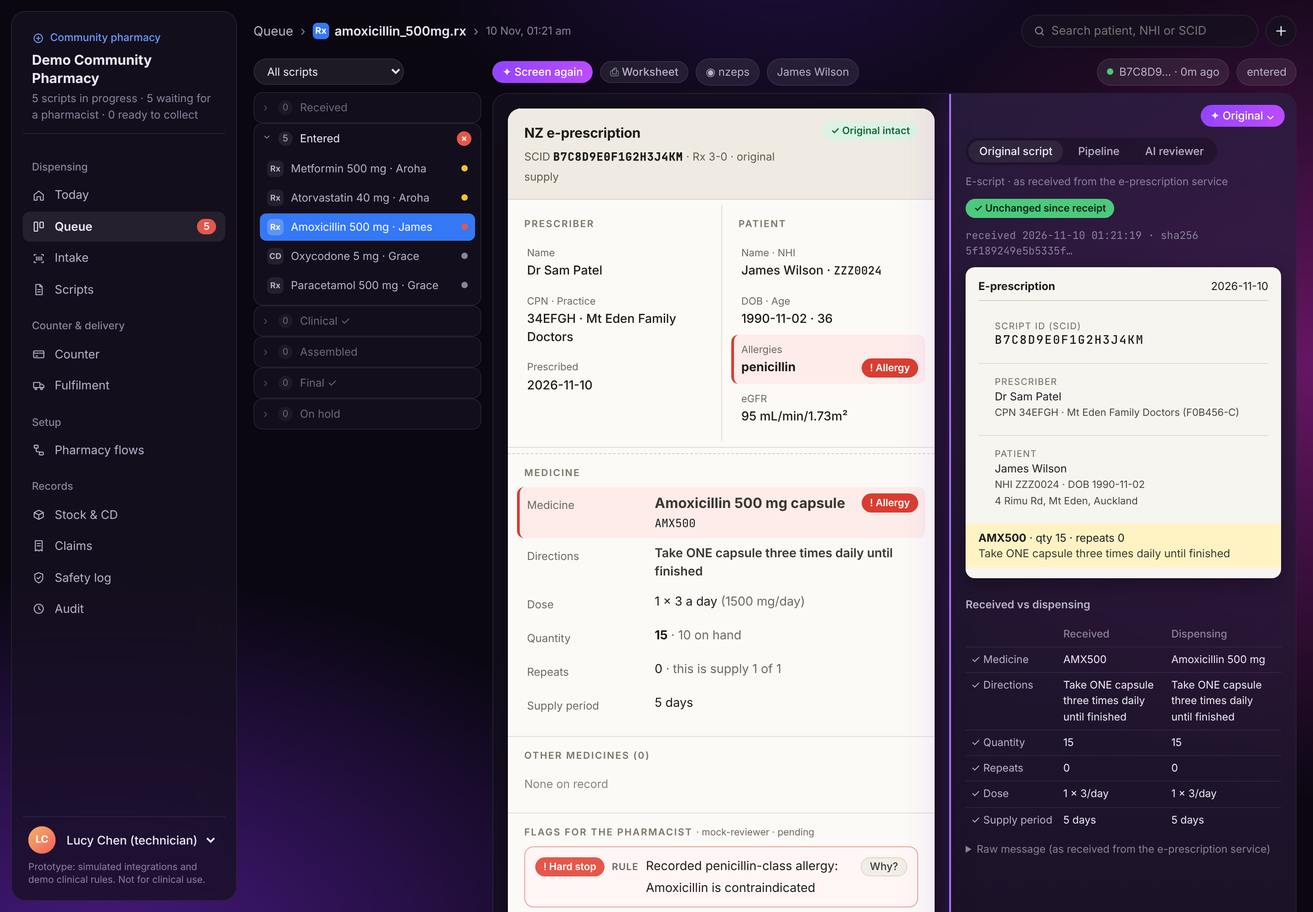
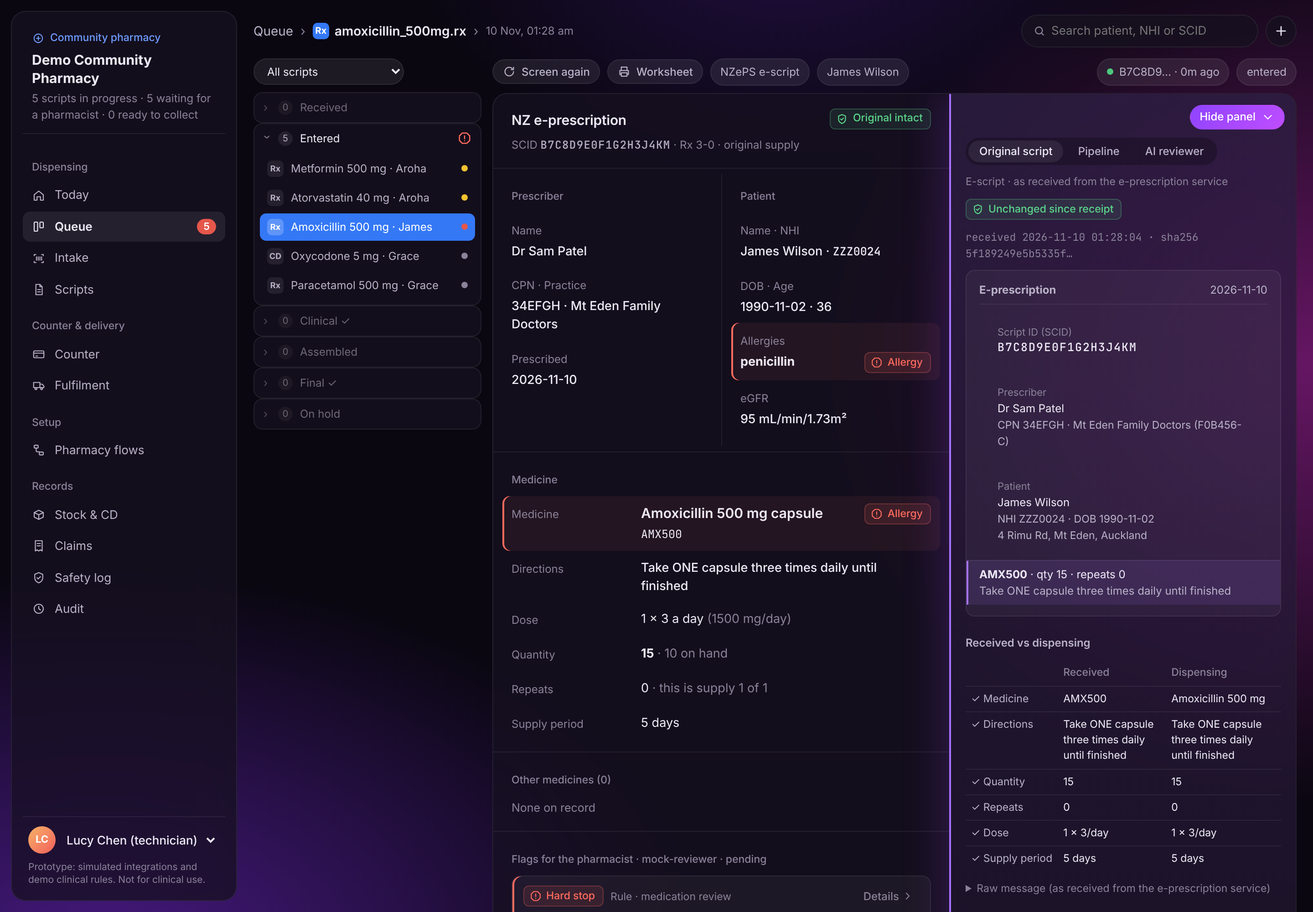
Restyle flags and indicators to match the app theme
- One line-icon set (same style as the sidebar) replaces sparkle and emoji
  glyphs: stop, alert, info, check, shield, print, pencil, refresh
- Status tags: icon + word ("Hard stop", "Review", "Check", "Note",
  "Resolved"), tinted from theme tokens instead of saturated filled pills
- Flagged fields use a thin severity edge and a light tint
- E-script panel, rendered original and safety log moved onto the dark
  theme surfaces; "Why?" becomes a quiet "Details" disclosure
- Queue stage flags use the same icons

Claude-Session: https://claude.ai/code/session_018RJN6QSqXdTFmGiCriScWZ

diff --git a/dispensing-platform/public/app.js b/dispensing-platform/public/app.js
@@ -213,8 +213,31 @@ const openTrace = new Set();
 
 const SPECIALIST = { pharma: 'medication review', pharmacology: 'clinical pharmacology', regulatory: 'regulatory', advocacy: 'patient advocacy' };
 const LANG = { en: 'English', mi: 'te reo Māori', sm: 'Samoan', to: 'Tongan', zh: 'Chinese', hi: 'Hindi' };
-const SEV_LABEL = { hard_stop: 'Hard stop', high: 'Needs review', moderate: 'Check', info: 'Info' };
-const SEV_ICON = { hard_stop: '!', high: '●', moderate: '○', info: 'i' };
+const SEV_LABEL = { hard_stop: 'Hard stop', high: 'Review', moderate: 'Check', info: 'Note' };
+const ICONS = {
+  stop: '<path d="M8 3h8l5 5v8l-5 5H8l-5-5V8z"/><path d="M12 8v5M12 16.5v.01"/>',
+  alert: '<path d="M12 4 2.8 20h18.4z"/><path d="M12 10v4.5M12 17.5v.01"/>',
+  dot: '<circle cx="12" cy="12" r="8"/><path d="M8.5 12h7"/>',
+  info: '<circle cx="12" cy="12" r="8.5"/><path d="M12 11v5.5M12 7.8v.01"/>',
+  check: '<circle cx="12" cy="12" r="8.5"/><path d="m8.3 12.4 2.5 2.5 4.9-5.1"/>',
+  shield: '<path d="M12 3l7 3v6c0 4.5-3 7.5-7 9-4-1.5-7-4.5-7-9V6z"/><path d="m9 12 2 2 4-4"/>',
+  diff: '<path d="M6 9.5h12M6 14.5h12M15.5 5l-7 14"/>',
+  refresh: '<path d="M19.5 12a7.5 7.5 0 1 1-2.2-5.3"/><path d="M19.5 4.5v4h-4"/>',
+  print: '<path d="M7 9V4h10v5"/><path d="M7 17H4.5v-7h15v7H17"/><path d="M7 14h10v6H7z"/>',
+  pencil: '<path d="M4 20h4L19 9l-4-4L4 16z"/><path d="m13.5 6.5 4 4"/>',
+  chevron: '<path d="m9 6 6 6-6 6"/>',
+  pill: '<rect x="3" y="8.5" width="18" height="7" rx="3.5"/><path d="M12 8.5v7"/>',
+  edit: '<path d="M4 20h4L19 9l-4-4L4 16z"/>',
+};
+const ico = (name) => `<svg class="ico" viewBox="0 0 24 24" aria-hidden="true">${ICONS[name]}</svg>`;
+const SEV_ICON_NAME = { hard_stop: 'stop', high: 'alert', moderate: 'dot', info: 'info', ok: 'check' };
+/** Status tag: icon + word, tinted by severity. Never colour alone. */
+const stag = (kind, label, { href, title } = {}) => {
+  const icon = ico(SEV_ICON_NAME[kind] ?? kind);
+  return href
+    ? `<a class="stag s-${kind}" href="${href}" ${title ? `title="${esc(title)}"` : ''}>${icon}<span>${esc(label)}</span></a>`
+    : `<span class="stag s-${kind}" ${title ? `title="${esc(title)}"` : ''}>${icon}<span>${esc(label)}</span></span>`;
+};
 
 async function renderQueue() {
   const jobs = await api('/api/queue');
@@ -233,7 +256,7 @@ async function renderQueue() {
     const worst = list.some((j) => j.top_severity === 'hard_stop') ? 'hard_stop' : list.some((j) => j.top_severity === 'high') ? 'high' : null;
     const open = list.length && (list.some((j) => j.id === selectedJobId) || ['entered', 'assembled'].includes(state));
     return `<details class="thread ${list.length ? '' : 'empty-group'}" ${open ? 'open' : ''}>
-      <summary><span class="n">${list.length}</span>${title}${worst ? `<span class="flag ${worst === 'high' ? 'high' : ''}">${worst === 'high' ? '•' : '×'}</span>` : ''}</summary>
+      <summary><span class="n">${list.length}</span>${title}${worst ? `<span class="tflag s-${worst}" title="${worst === 'high' ? 'Has findings to review' : 'Has a hard stop'}">${ico(worst === 'high' ? 'alert' : 'stop')}</span>` : ''}</summary>
       ${list.map((j) => `<div class="titem ${j.id === selectedJobId ? 'sel' : ''}" data-id="${j.id}" title="${esc(j.patient_name)}">
         <span class="ico">${j.controlled_class ? 'CD' : 'Rx'}</span><span class="t">${esc(j.medicine)} ${esc(j.strength)} · ${esc(j.patient_name.split(' ')[0])}</span>
         ${j.top_severity && j.top_severity !== 'info' ? `<span class="sevdot ${j.top_severity}"></span>` : ''}</div>`).join('')}
@@ -270,9 +293,9 @@ async function renderJobPane(id, { autoScreen = true } = {}) {
 
   // toolbar above the panel
   $('#code-bar').innerHTML = `
-    ${['queued', 'entered'].includes(j.state) ? '<button class="chip accent" id="rescreen">✦ Screen again</button>' : ''}
-    <button class="chip" id="print-worksheet" title="Print the standardised dispensing worksheet">⎙ Worksheet</button>
-    <span class="chip">◉ ${esc(j.source)}</span>
+    ${['queued', 'entered'].includes(j.state) ? `<button class="chip" id="rescreen">${ico('refresh')} Screen again</button>` : ''}
+    <button class="chip" id="print-worksheet" title="Print the standardised dispensing worksheet">${ico('print')} Worksheet</button>
+    <span class="chip">${esc(({ nzeps: 'NZePS e-script', paper: 'Paper', fax: 'Fax', phone: 'Phone order', signature_exempt: 'Signature exempt' })[j.source] ?? j.source)}</span>
     <span class="chip">${esc(j.patient_name)}</span>
     <span class="grow"></span>
     ${j.controlled_class ? `<span class="chip">CD ${esc(j.controlled_class)}</span>` : ''}
@@ -297,7 +320,7 @@ async function renderJobPane(id, { autoScreen = true } = {}) {
       if (!cur || rank(f) < rank(cur)) byLabel.set(label, f);
     }
     return [...byLabel.entries()].map(([label, f]) =>
-      `<a class="fflag ${decisions[f.id] ? 'ok' : f.severity}" href="#flag-${esc(f.id)}" title="${esc(f.message)}">${decisions[f.id] ? '✓' : SEV_ICON[f.severity]} ${esc(label)}</a>`).join('');
+      stag(decisions[f.id] ? 'ok' : f.severity, label, { href: `#flag-${esc(f.id)}`, title: f.message })).join('');
   };
   const field = (key, label, valueHtml, { diffField, input } = {}) => {
     const list = (flags[key] ?? []).filter((f) => f.severity !== 'info' && !decisions[f.id]);
@@ -307,7 +330,7 @@ async function renderJobPane(id, { autoScreen = true } = {}) {
       <div class="rx-label">${label}</div>
       <div class="rx-value">${editing && input ? input : valueHtml}
         ${d && !editing ? `<div class="rx-orig">${srcWord}: <s>${esc(d.received)}</s></div>` : ''}</div>
-      <div class="rx-flags">${chips(key)}${d ? `<span class="fflag high">≠ Changed</span>` : ''}</div>
+      <div class="rx-flags">${chips(key)}${d ? `<span class="stag s-edit">${ico('diff')}<span>Changed</span></span>` : ''}</div>
     </div>`;
   };
   const num = (name, val, attrs = '') => `<input class="rx-in" type="number" name="${name}" value="${esc(val ?? '')}" ${attrs} />`;
@@ -318,8 +341,8 @@ async function renderJobPane(id, { autoScreen = true } = {}) {
       <div class="rx-top">
         <div><div class="rx-kind">${o?.kind === 'electronic' ? 'NZ e-prescription' : o?.kind === 'document' ? 'Written prescription (scanned)' : 'Verbal order'}</div>
           <div class="rx-scidline">${j.scid ? `SCID <b>${esc(j.scid)}</b> · ` : ''}Rx ${esc(j.id)}-${esc(j.sequence)} · ${j.sequence === 0 ? 'original supply' : `repeat ${j.sequence}`}</div></div>
-        <div class="rx-top-right">${o?.intact ? '<span class="fflag ok">✓ Original intact</span>' : '<span class="fflag hard_stop">✗ Integrity failed</span>'}
-          ${editing ? '<span class="fflag high">Editing</span>' : ''}</div>
+        <div class="rx-top-right">${o?.intact ? `<span class="stag s-ok">${ico('shield')}<span>Original intact</span></span>` : stag('hard_stop', 'Integrity failed')}
+          ${editing ? `<span class="stag s-edit">${ico('edit')}<span>Editing</span></span>` : ''}</div>
       </div>
       <div class="rx-cols">
         <section class="rx-sec"><h5>Prescriber</h5>
@@ -335,7 +358,7 @@ async function renderJobPane(id, { autoScreen = true } = {}) {
         </section>
       </div>
       <section class="rx-sec rx-item"><h5>Medicine</h5>
-        ${field('medicine', 'Medicine', `<span class="rx-med">${esc(j.medicine)} ${esc(j.strength)} ${esc(j.form)}</span> <span class="mono muted">${esc(j.medicine_code ?? '')}</span>${j.controlled_class ? ` <span class="fflag cd">CD Class ${esc(j.controlled_class)}</span>` : ''}`, { diffField: 'Medicine' })}
+        ${field('medicine', 'Medicine', `<span class="rx-med">${esc(j.medicine)} ${esc(j.strength)} ${esc(j.form)}</span> <span class="mono muted">${esc(j.medicine_code ?? '')}</span>${j.controlled_class ? ` <span class="stag s-cd">${ico('pill')}<span>Controlled · Class ${esc(j.controlled_class)}</span></span>` : ''}`, { diffField: 'Medicine' })}
         ${field('directions', 'Directions', `<span class="rx-dir">${esc(j.directions)}</span>`, { diffField: 'Directions', input: `<textarea class="rx-in" name="directions" rows="2">${esc(j.directions)}</textarea>` })}
         ${field('dose', 'Dose', j.dose_units && j.doses_per_day ? `${j.dose_units} × ${j.doses_per_day} a day${dailyMg ? ` <span class="muted">(${dailyMg} mg/day)</span>` : ''}` : '<span class="muted">Free text only</span>', { diffField: 'Dose', input: `${num('doseUnits', j.dose_units, 'step="0.5" min="0"')} units × ${num('dosesPerDay', j.doses_per_day, 'step="1" min="0"')} a day` })}
         ${field('quantity', 'Quantity', `<b>${j.quantity}</b>${j.quantity_supplied ? ` <span class="muted">· supplied ${j.quantity_supplied}${j.owing ? `, owing ${j.owing}` : ''}</span>` : ''} <span class="muted">· ${j.on_hand} on hand</span>`, { diffField: 'Quantity', input: num('quantity', j.quantity, 'min="1" step="1"') })}
@@ -358,7 +381,7 @@ async function renderJobPane(id, { autoScreen = true } = {}) {
   $('#job-pane').innerHTML = `
     <div class="code rx-scroll">${escriptHtml}</div>
     <aside class="rail ${railOpen ? '' : 'closed'}">
-      <button class="chip accent rail-toggle" id="rail-toggle">✦ ${({ original: 'Original', reviewer: 'Reviewer', flow: 'Flow' })[railTab]} ${railOpen ? '⌄' : '‹'}</button>
+      <button class="chip accent rail-toggle" id="rail-toggle">${railOpen ? 'Hide panel' : 'Show panel'} <span class="chev ${railOpen ? 'open' : ''}">${ico('chevron')}</span></button>
       <div class="rail-tabs">
         <button class="${railTab === 'original' ? 'on' : ''}" data-rail="original">Original script</button>
         <button class="${railTab === 'flow' ? 'on' : ''}" data-rail="flow">Pipeline</button>
@@ -371,7 +394,7 @@ async function renderJobPane(id, { autoScreen = true } = {}) {
     </aside>
     <div class="code-actions">
       ${editing ? `<button id="edit-cancel">Cancel</button><button class="primary" id="edit-save">Save changes</button><span class="muted">Saving re-runs screening. The original as received is kept unchanged.</span>`
-      : `${canEdit ? '<button id="edit-start">✎ Edit e-script</button>' : ''}
+      : `${canEdit ? `<button id="edit-start">${ico('pencil')} Edit e-script</button>` : ''}
       ${j.actions.includes('clinical_check') ? `<label class="verify"><input type="checkbox" id="src-verified" /> ${o?.kind === 'document' ? 'Read against the scanned original' : o?.kind === 'verbal' ? 'Verbal order confirmed with prescriber' : 'Checked against the original e-script'}${o?.compare?.some((c) => !c.match) ? ` <span class="tag warn">${o.compare.filter((c) => !c.match).length} change${o.compare.filter((c) => !c.match).length === 1 ? '' : 's'}</span>` : ''}</label>` : ''}
       ${j.actions.includes('release') ? `<select id="rel-method"><option value="pickup">Pickup in store</option><option value="delivery">Pharmacy delivery</option><option value="courier">Courier</option><option value="compliance_pack">Compliance pack</option></select><input id="rel-address" placeholder="Delivery address (defaults to patient's)" />` : ''}
       <span class="grow"></span>
@@ -409,8 +432,8 @@ function originalHtml(j, o) {
   if (!o) return '<div class="meta">No original stored.</div>';
   const kindLabel = { electronic: `E-script · ${esc(o.payloadRole)}`, document: 'Written script · scan attached at intake', verbal: 'Verbal order · no written original' }[o.kind];
   const integrity = o.intact && o.documents.every((d) => d.intact)
-    ? `<span class="badge ok">✓ Unchanged since receipt</span>`
-    : `<span class="badge hard_stop">✗ Integrity check failed</span>`;
+    ? `<span class="stag s-ok">${ico('shield')}<span>Unchanged since receipt</span></span>`
+    : stag('hard_stop', 'Integrity check failed');
   const p = o.payload ?? {};
   const doc = o.kind === 'electronic' ? `
     <div class="rx-doc">
@@ -490,12 +513,12 @@ function flagListHtml(findings, decisions, editable) {
       ? `<div class="decide" data-fid="${esc(f.id)}" data-kind="override"><input type="text" placeholder="Override reason (required)" data-reason /><label><input type="checkbox" data-prescriber /> Prescriber contacted</label></div>`
       : editable && f.severity === 'high'
         ? `<div class="decide" data-fid="${esc(f.id)}" data-kind="ack"><label><input type="checkbox" data-ack /> Reviewed</label><input type="text" placeholder="Note (optional)" data-note /></div>`
-        : d ? `<div class="rx-decision">✓ ${esc(d.action === 'override' ? 'Overridden' : 'Reviewed')}${d.reason || d.note ? `: ${esc(d.reason ?? d.note)}` : ''}${d.prescriberConfirmed ? ' · prescriber contacted' : ''}</div>` : '';
+        : d ? `<div class="rx-decision">${ico('check')} ${esc(d.action === 'override' ? 'Overridden' : 'Reviewed')}${d.reason || d.note ? `: ${esc(d.reason ?? d.note)}` : ''}${d.prescriberConfirmed ? ' · prescriber contacted' : ''}</div>` : '';
     return `<div class="rx-flag sev-${sev}" id="flag-${esc(f.id)}">
-      <div class="rx-flag-head"><span class="badge ${sev === 'ok' ? 'ok' : f.severity}">${d ? '✓' : SEV_ICON[f.severity]} ${d ? 'Done' : SEV_LABEL[f.severity]}</span>
-        <span class="rx-origin">${f.origin === 'ai' ? 'AI' : f.origin === 'formulary' ? 'Formulary' : 'Rule'}</span>
-        <span class="rx-flag-msg">${esc(f.message)}</span>
-        <button type="button" class="rx-why" data-trace="${esc(f.id)}">${openTrace.has(f.id) ? 'Hide' : 'Why?'}</button></div>
+      <div class="rx-flag-head">${stag(d ? 'ok' : f.severity, d ? 'Resolved' : SEV_LABEL[f.severity])}
+        <span class="rx-origin">${f.origin === 'ai' ? 'AI reviewer' : f.origin === 'formulary' ? 'Formulary' : 'Rule'} · ${esc(SPECIALIST[f.specialist] ?? f.specialist)}</span>
+        <button type="button" class="rx-why ${openTrace.has(f.id) ? 'open' : ''}" data-trace="${esc(f.id)}" aria-expanded="${openTrace.has(f.id)}">Details ${ico('chevron')}</button></div>
+      <div class="rx-flag-msg">${esc(f.message)}</div>
       ${openTrace.has(f.id) ? `<div class="rx-trace"><b>Rule</b> ${esc(f.trace?.rule ?? '')}<br/><b>Source</b> ${esc(f.trace?.source ?? '')}${f.trace?.link ? ` · <a href="${esc(f.trace.link)}" target="_blank" rel="noopener">reference</a>` : ''}<br/><b>Inputs</b> <code>${esc(typeof f.trace?.inputs === 'string' ? f.trace.inputs : JSON.stringify(f.trace?.inputs))}</code></div>` : ''}
       ${decide}
     </div>`;
@@ -625,7 +648,7 @@ async function renderFulfilment() {
       <div class="muted">${esc(f.method.replace('_', ' '))}${f.address ? ` · ${esc(f.address)}` : ''}${f.tracking_ref ? ` · ${esc(f.provider)} <code>${esc(f.tracking_ref)}</code>` : ''}${f.pickup_code && f.method === 'pickup' ? ` · pickup code <code>${esc(f.pickup_code)}</code>` : ''}</div>
       <ul class="list" style="margin-top:8px">${f.jobs.map((j) => `<li><span>${esc(j.medicine)} ${esc(j.strength)} ×${j.quantity_supplied}${j.controlled_class ? ' <span class="tag cd">CD</span>' : ''}${j.owing ? ` <span class="tag warn">owing ${j.owing}</span>` : ''}</span><span class="tag">${esc(j.state)}</span></li>`).join('')}</ul>
       ${f.proof ? `<p class="muted">${esc(f.proof)}</p>` : ''}
-      <div class="actions"><button data-print-label="${f.id}">${['pickup', 'compliance_pack'].includes(f.method) ? '⎙ Bag label' : '⎙ Shipping label'}</button>${f.ready || f.status !== 'open' ? acts.map(([a, l]) => `<button class="primary" data-f="${f.id}" data-a="${a}" data-cd="${f.hasControlled}">${l}</button>`).join('') : '<span class="muted">Waiting for remaining items…</span>'}</div></div>`;
+      <div class="actions"><button data-print-label="${f.id}">${ico('print')} ${['pickup', 'compliance_pack'].includes(f.method) ? 'Bag label' : 'Shipping label'}</button>${f.ready || f.status !== 'open' ? acts.map(([a, l]) => `<button class="primary" data-f="${f.id}" data-a="${a}" data-cd="${f.hasControlled}">${l}</button>`).join('') : '<span class="muted">Waiting for remaining items…</span>'}</div></div>`;
   }).join('') || '<p class="muted">Nothing released yet.</p>';
   document.querySelectorAll('[data-print-label]').forEach((b) => (b.onclick = () => openPrint(`/api/print/fulfilments/${b.dataset.printLabel}/label`)));
   document.querySelectorAll('[data-f]').forEach((b) => (b.onclick = guard(async () => {
@@ -734,7 +757,7 @@ async function renderSafety() {
   const rows = await api('/api/screening/overrides');
   $('#overrides-table').innerHTML = '<tr><th>When</th><th>Pharmacist</th><th>Patient</th><th>Medicine</th><th>Finding</th><th>Decision</th></tr>' +
     (rows.map((r) => `<tr><td class="mono">${esc(r.at)}</td><td>${esc(r.pharmacist)}</td><td>${esc(r.patient)}</td><td>${esc(r.medicine)}</td>
-      <td><span class="sev ${r.severity}">${SEV_LABEL[r.severity]}</span> <span class="tag">${r.origin === 'ai' ? 'AI' : 'Rule'}</span> ${esc(r.message)}</td>
+      <td>${stag(r.severity, SEV_LABEL[r.severity])} <span class="muted">${r.origin === 'ai' ? 'AI reviewer' : r.origin === 'formulary' ? 'Formulary' : 'Rule'}</span><div>${esc(r.message)}</div></td>
       <td><b>${esc(r.action)}</b>${r.reason ? `: ${esc(r.reason)}` : ''}${r.prescriberConfirmed ? '<br/><span class="muted">prescriber contacted</span>' : ''}</td></tr>`).join('') || '<tr><td colspan="6" class="muted">No overrides yet.</td></tr>');
 }
 

diff --git a/dispensing-platform/public/styles.css b/dispensing-platform/public/styles.css
@@ -274,13 +274,13 @@ code, .mono { font-family: var(--mono); font-size: 12px; color: var(--syn-id); }
 .rail-tabs button.on { background: var(--panel-3); color: var(--ink); }
 .rail h4 { margin: 10px 0 0; }
 .mono-hash { font-family: var(--mono); font-size: 11px; }
-.rx-doc { background: #F7F5EF; color: #1B1B1B; border-radius: 10px; padding: 12px 14px; font-size: 12px; line-height: 1.45; box-shadow: 0 6px 24px rgba(0,0,0,.35); }
-.rx-head { display: flex; justify-content: space-between; border-bottom: 1px solid #D8D3C6; padding-bottom: 6px; margin-bottom: 8px; }
-.rx-scid { font: 500 13px/1.4 var(--mono); letter-spacing: .1em; color: #1B1B1B; }
-.rx-sec { margin: 6px 0; } .rx-sec > span { display: block; font-size: 10px; text-transform: uppercase; letter-spacing: .08em; color: #6E6A5E; }
-.rx-sec small { color: #4A473F; font-size: 11px; }
-.rx-item { border-top: 1px dashed #D8D3C6; padding: 6px 0; } .rx-item span { color: #3A382F; }
-.rx-item.cur { background: #FFF3C4; margin: 0 -14px; padding: 6px 14px; border-top-color: transparent; }
+.rx-doc { background: var(--panel-2); color: var(--ink); border: 1px solid var(--line); border-radius: 10px; padding: 12px 14px; font-size: 12px; line-height: 1.5; }
+.rx-head { display: flex; justify-content: space-between; border-bottom: 1px solid var(--line); padding-bottom: 6px; margin-bottom: 8px; color: var(--ink-2); }
+.rx-scid { font: 500 12.5px/1.4 var(--mono); letter-spacing: .08em; color: var(--ink); }
+.rx-sec { margin: 6px 0; } .rx-sec > span { display: block; font-size: 11px; color: var(--muted); }
+.rx-sec small { color: var(--ink-2); font-size: 11.5px; }
+.rx-doc .rx-item { border-top: 1px solid var(--line); padding: 6px 0; } .rx-doc .rx-item span { color: var(--ink-2); }
+.rx-doc .rx-item.cur { background: color-mix(in srgb, var(--accent) 12%, transparent); box-shadow: inset 2px 0 0 var(--accent); margin: 0 -14px; padding: 6px 14px; }
 .rx-scan { width: 100%; border-radius: 10px; background: #fff; box-shadow: 0 6px 24px rgba(0,0,0,.35); }
 table.cmp { font-size: 11.5px; } table.cmp th, table.cmp td { padding: 5px 6px; } table.cmp td:first-child { white-space: nowrap; color: var(--ink-2); }
 table.cmp tr.diff td { background: var(--warn-bg); color: var(--warn); }
@@ -291,65 +291,67 @@ details.raw pre { font: 10.5px/1.5 var(--mono); color: var(--ink-2); background:
 .verify { display: inline-flex; gap: 6px; align-items: center; padding: 6px 12px; border-radius: 999px; background: var(--panel-2); border: 1px solid var(--line-strong); }
 .upload { display: flex; flex-direction: column; gap: 6px; font-size: 12px; }
 
-/* ── e-script panel: a readable prescription document with flags on the fields ── */
-.code.rx-scroll { font-family: var(--sans); padding: 16px; overflow: visible; }
-.rx-panel { background: #FBFAF6; color: #1C1B18; border-radius: 14px; box-shadow: 0 10px 40px rgba(0,0,0,.35); overflow: hidden; font-size: 13.5px; }
-.rx-panel .muted { color: #6E6A60; }
-.rx-panel .mono { font-family: var(--mono); font-size: 12.5px; color: #1C1B18; }
-.rx-top { display: flex; justify-content: space-between; align-items: flex-start; gap: 12px; padding: 14px 18px; background: #EFEBE2; border-bottom: 1px solid #DDD7CA; }
-.rx-kind { font-weight: 700; font-size: 15px; letter-spacing: -.01em; }
-.rx-scidline { color: #5E5A50; font-size: 12px; margin-top: 2px; } .rx-scidline b { font-family: var(--mono); letter-spacing: .06em; color: #1C1B18; }
+
+/* ── shared icons and status tags ── */
+.ico { width: 14px; height: 14px; fill: none; stroke: currentColor; stroke-width: 1.8; stroke-linecap: round; stroke-linejoin: round; flex: none; }
+button .ico, .chip .ico { width: 15px; height: 15px; }
+.stag { --c: var(--ink-2); display: inline-flex; align-items: center; gap: 5px; font: 500 11.5px/1 var(--sans); padding: 4px 8px 4px 6px; border-radius: 6px; white-space: nowrap; text-decoration: none;
+  color: var(--c); background: color-mix(in srgb, var(--c) 11%, transparent); border: 1px solid color-mix(in srgb, var(--c) 26%, transparent); }
+a.stag:hover { background: color-mix(in srgb, var(--c) 18%, transparent); }
+.stag .ico { width: 13px; height: 13px; stroke-width: 2; }
+.s-hard_stop { --c: var(--danger); } .s-high { --c: var(--warn); } .s-moderate { --c: var(--ink-2); }
+.s-info { --c: var(--muted); } .s-ok { --c: var(--ok); } .s-cd { --c: var(--cd); } .s-edit { --c: #9DB7FF; }
+.tflag { margin-left: auto; display: inline-grid; place-items: center; color: var(--c); }
+.tflag .ico { width: 15px; height: 15px; stroke-width: 2; }
+.chev { display: inline-flex; transition: transform .15s; } .chev.open { transform: rotate(90deg); }
+
+/* ── e-script panel (dark, same surfaces as the rest of the app) ── */
+.code.rx-scroll { font-family: var(--sans); padding: 0; overflow: visible; }
+.rx-panel { color: var(--ink); font-size: 13.5px; }
+.rx-panel .mono { font-family: var(--mono); font-size: 12.5px; color: var(--ink); }
+.rx-top { display: flex; justify-content: space-between; align-items: flex-start; gap: 12px; padding: 16px 20px 14px; border-bottom: 1px solid var(--line); }
+.rx-kind { font-weight: 600; font-size: 15px; letter-spacing: -.01em; }
+.rx-scidline { color: var(--muted); font-size: 12px; margin-top: 3px; } .rx-scidline b { font-family: var(--mono); font-weight: 500; letter-spacing: .06em; color: var(--ink-2); }
 .rx-top-right { display: flex; gap: 6px; flex-wrap: wrap; justify-content: flex-end; }
-.rx-cols { display: grid; grid-template-columns: 1fr 1fr; border-bottom: 1px solid #E4DFD3; }
-.rx-cols .rx-sec + .rx-sec { border-left: 1px solid #E4DFD3; }
-.rx-sec { padding: 12px 18px 10px; }
-.rx-sec + .rx-sec:not(.rx-cols .rx-sec) { border-top: 1px solid #E4DFD3; }
-.rx-sec h5 { margin: 0 0 6px; font-size: 10.5px; letter-spacing: .12em; text-transform: uppercase; color: #7A7568; font-weight: 600; }
-.rx-sec h5 .muted { text-transform: none; letter-spacing: 0; font-weight: 400; }
-.rx-field { display: grid; grid-template-columns: 120px minmax(0, 1fr) auto; gap: 10px; align-items: start; padding: 7px 8px; margin: 0 -8px; border-radius: 8px; border-left: 3px solid transparent; }
-.rx-item .rx-field { grid-template-columns: 130px minmax(0, 1fr) auto; }
-.rx-label { color: #6E6A60; font-size: 12px; padding-top: 2px; }
-.rx-value { min-width: 0; line-height: 1.45; }
-.rx-med { font-weight: 700; font-size: 15.5px; }
-.rx-dir { font-weight: 600; }
-.rx-orig { font-size: 12px; color: #8A5A00; margin-top: 2px; } .rx-orig s { color: #6E6A60; }
-.rx-flags { display: flex; gap: 4px; flex-wrap: wrap; justify-content: flex-end; max-width: 260px; }
-.rx-field.sev-hard_stop { background: #FDECEA; border-left-color: #D93D30; }
-.rx-field.sev-high { background: #FDF4DD; border-left-color: #D99A00; }
-.rx-field.sev-moderate { background: #F1EEE7; border-left-color: #A9A291; }
-.fflag { display: inline-flex; align-items: center; gap: 4px; font: 600 11px/1 var(--sans); padding: 4px 8px; border-radius: 999px; text-decoration: none; white-space: nowrap; border: 1px solid transparent; }
-.fflag.hard_stop { background: #D93D30; color: #fff; }
-.fflag.high { background: #F5C230; color: #2A1E00; }
-.fflag.moderate { background: #E6E1D6; color: #3C3930; }
-.fflag.ok { background: #DCF2E4; color: #146B3A; }
-.fflag.cd { background: #ECE6FA; color: #5B3FB0; }
-.rx-empty { color: #8A857A; font-size: 12.5px; padding: 4px 0; }
-.rx-in { width: 100%; background: #fff; color: #1C1B18; border: 1px solid #C9C2B2; border-radius: 8px; padding: 6px 9px; font: inherit; }
-input.rx-in[type=number] { width: 90px; display: inline-block; }
-.rx-in:focus { outline: 2px solid #8E44FF; outline-offset: 0; border-color: transparent; }
-.rx-reason { background: #F3EEFF; }
-.rx-flag { border: 1px solid #E4DFD3; border-radius: 10px; padding: 9px 11px; margin: 6px 0; background: #fff; scroll-margin-top: 90px; }
-.rx-flag.sev-hard_stop { border-color: #EBA59E; background: #FFF6F5; }
-.rx-flag.sev-high { border-color: #EBCB7A; background: #FFFBEF; }
-.rx-flag.sev-ok { border-color: #B5DFC4; background: #F5FBF7; }
-.rx-flag:target { box-shadow: 0 0 0 3px rgba(142, 68, 255, .35); }
-.rx-flag-head { display: flex; gap: 8px; align-items: baseline; flex-wrap: wrap; }
-.rx-flag-msg { flex: 1; min-width: 200px; }
-.rx-origin { font-size: 10.5px; font-weight: 600; color: #6E6A60; text-transform: uppercase; letter-spacing: .06em; }
-.rx-why { margin-left: auto; padding: 4px 9px; font-size: 11.5px; background: #F1EEE7; color: #3C3930; border-color: #DDD7CA; }
-.rx-trace { margin-top: 6px; font-size: 12px; color: #4A473F; line-height: 1.5; } .rx-trace code { color: #4A473F; font-size: 11px; word-break: break-all; }
-.rx-decision { margin-top: 6px; font-size: 12px; color: #146B3A; }
-.rx-panel .decide { margin-top: 8px; display: flex; gap: 8px; flex-wrap: wrap; align-items: center; }
-.rx-panel .decide input[type=text] { flex: 1; min-width: 200px; background: #fff; color: #1C1B18; border: 1px solid #C9C2B2; }
-.rx-panel .decide label { display: inline-flex; gap: 6px; align-items: center; color: #3C3930; }
-.rx-panel pre.label { margin: 0; border: 1px dashed #B7B09F; }
+.rx-cols { display: grid; grid-template-columns: 1fr 1fr; border-bottom: 1px solid var(--line); }
+.rx-cols .rx-sec + .rx-sec { border-left: 1px solid var(--line); }
+.rx-panel > .rx-sec { border-bottom: 1px solid var(--line); }
+.rx-panel > .rx-sec:last-child { border-bottom: 0; }
+.rx-sec { padding: 14px 20px 12px; }
+.rx-sec h5 { margin: 0 0 8px; font-size: 11.5px; color: var(--muted); font-weight: 500; }
+.rx-field { --c: transparent; display: grid; grid-template-columns: 130px minmax(0, 1fr) auto; gap: 12px; align-items: start; padding: 8px 10px; margin: 0 -10px; border-radius: 8px; }
+.rx-cols .rx-field { grid-template-columns: minmax(0, 1fr) auto; row-gap: 2px; }
+.rx-cols .rx-label { grid-column: 1 / -1; }
+.rx-label { color: var(--muted); font-size: 12px; padding-top: 1px; }
+.rx-value { min-width: 0; line-height: 1.5; }
+.rx-cols .rx-value { font-weight: 500; }
+.rx-med { font-weight: 600; font-size: 15px; }
+.rx-dir { font-weight: 500; }
+.rx-orig { font-size: 12px; color: var(--muted); margin-top: 3px; } .rx-orig s { color: var(--ink-2); text-decoration-color: color-mix(in srgb, var(--ink-2) 60%, transparent); }
+.rx-flags { display: flex; gap: 5px; flex-wrap: wrap; justify-content: flex-end; max-width: 280px; }
+.rx-field.sev-hard_stop { --c: var(--danger); } .rx-field.sev-high { --c: var(--warn); } .rx-field.sev-moderate { --c: var(--line-strong); }
+.rx-field[class*="sev-"] { background: color-mix(in srgb, var(--c) 7%, transparent); box-shadow: inset 2px 0 0 var(--c); }
+.rx-field.sev-moderate { background: var(--panel-2); }
+.rx-empty { color: var(--muted); font-size: 12.5px; padding: 2px 0; }
+.rx-in { width: 100%; }
+input.rx-in[type=number] { width: 84px; display: inline-block; }
+.rx-reason { background: color-mix(in srgb, var(--accent) 9%, transparent); box-shadow: inset 2px 0 0 var(--accent); }
+.rx-flag { --c: var(--line-strong); border: 1px solid var(--line); border-radius: 10px; padding: 10px 12px; margin: 8px 0; background: var(--panel-2); box-shadow: inset 2px 0 0 var(--c); scroll-margin-top: 90px; }
+.rx-flag.sev-hard_stop { --c: var(--danger); } .rx-flag.sev-high { --c: var(--warn); } .rx-flag.sev-ok { --c: var(--ok); }
+.rx-flag:target { outline: 2px solid color-mix(in srgb, var(--accent) 60%, transparent); outline-offset: 1px; }
+.rx-flag-head { display: flex; gap: 8px; align-items: center; flex-wrap: wrap; }
+.rx-origin { font-size: 11.5px; color: var(--muted); }
+.rx-flag-msg { margin-top: 6px; line-height: 1.5; color: var(--ink); }
+.rx-why { margin-left: auto; padding: 3px 6px; font-size: 12px; background: none; border: 0; color: var(--muted); gap: 3px; }
+.rx-why:hover { color: var(--ink); background: none; }
+.rx-why .ico { width: 13px; height: 13px; transition: transform .15s; } .rx-why.open .ico { transform: rotate(90deg); }
+.rx-trace { margin-top: 8px; padding: 8px 10px; border-radius: 8px; background: rgba(0,0,0,.22); font-size: 12px; color: var(--ink-2); line-height: 1.6; }
+.rx-trace b { color: var(--muted); font-weight: 500; margin-right: 4px; } .rx-trace code { font-size: 11px; word-break: break-all; color: var(--ink-2); }
+.rx-decision { margin-top: 8px; font-size: 12px; color: var(--ok); display: flex; gap: 6px; align-items: center; }
+.rx-panel .decide { margin-top: 10px; display: flex; gap: 8px; flex-wrap: wrap; align-items: center; }
+.rx-panel .decide input[type=text] { flex: 1; min-width: 200px; }
+.rx-panel .decide label { display: inline-flex; gap: 6px; align-items: center; color: var(--ink-2); }
+.rx-panel pre.label { margin: 0; }
 .code-actions .grow { flex: 1; }
 button.submit { padding: 10px 18px; font-size: 13.5px; }
-@media (max-width: 1200px) { .rx-cols { grid-template-columns: 1fr; } .rx-cols .rx-sec + .rx-sec { border-left: 0; border-top: 1px solid #E4DFD3; } }
-
-.rx-cols .rx-field { grid-template-columns: minmax(0, 1fr) auto; row-gap: 0; }
-.rx-cols .rx-label { grid-column: 1 / -1; font-size: 11px; padding: 0; }
-.rx-cols .rx-value { font-weight: 500; }
-.rx-panel .badge.moderate { background: #E6E1D6; color: #3C3930; }
-.rx-panel .badge.info { background: #F1EEE7; color: #5E5A50; }
-.rx-panel .badge.ai { background: #ECE6FA; color: #5B3FB0; }
+@media (max-width: 1200px) { .rx-cols { grid-template-columns: 1fr; } .rx-cols .rx-sec + .rx-sec { border-left: 0; border-top: 1px solid var(--line); } }
